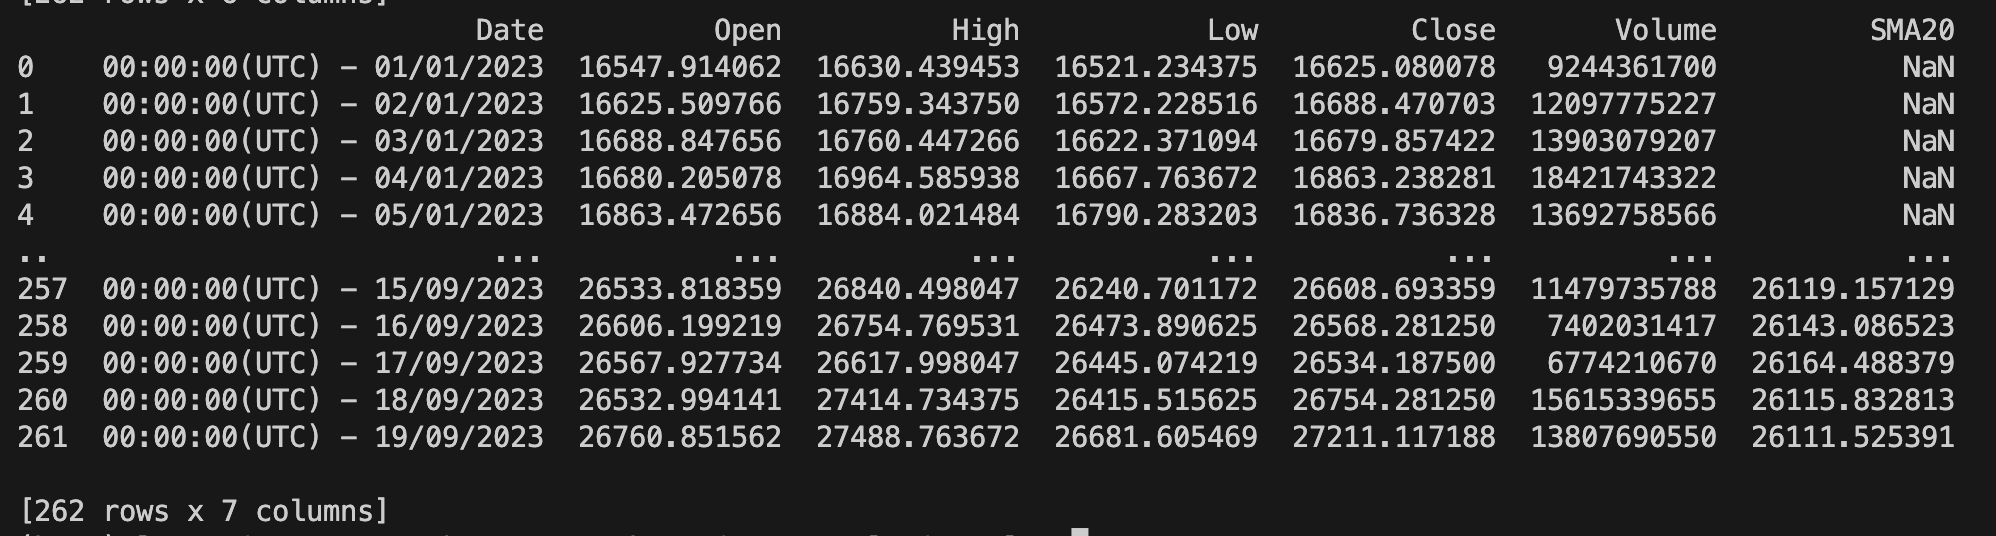
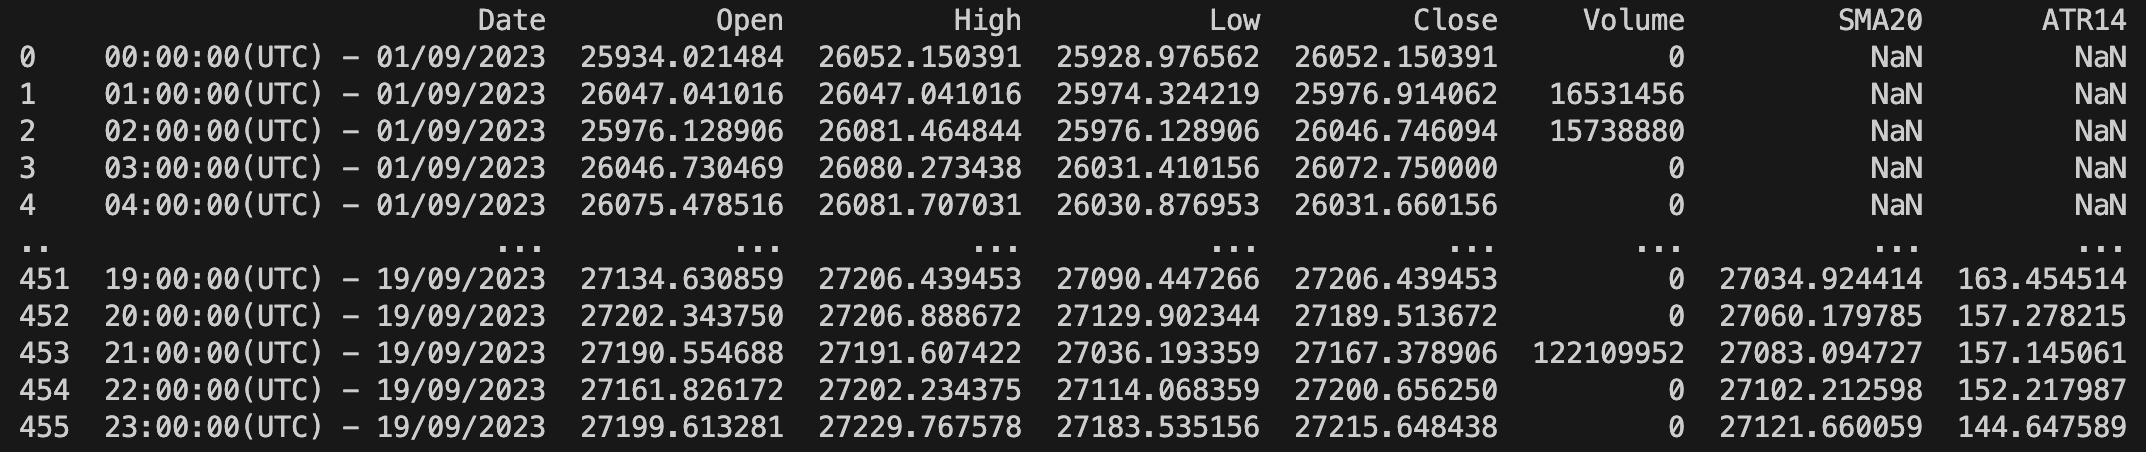
Update Average True Range

diff --git a/utils/addAttributeData.py b/utils/addAttributeData.py
@@ -63,3 +63,25 @@ class AddAttribute():
 
             priceData[columnName] = [[upper[idx], middle[idx], lower[idx]] for idx in range(len(upper))]
             return priceData
+        
+    class VolatilityAnalysis(): 
+        def ATR(self, priceData, timePeriod=14, priceName=['High', 'Low', 'Close'], columnName="ATR14"): 
+            '''
+            Usage
+            -----
+            Add Average True Range column to DataFrame
+
+            Parameters
+            ----------
+            priceData (DataFrame): the dataframe you base on
+            timePeriod (int): interval for each data record
+            priceName (str): the name of the column you want to base on
+            columnName (str): the name of the columns you want to add
+
+            Returns
+            -------
+            priceData (DataFrame): Dataframe have Average True Range
+            '''
+
+            priceData[columnName] = talib.ATR(priceData[priceName[0]], priceData[priceName[1]], priceData[priceName[2]], timeperiod=timePeriod)
+            return priceData

diff --git a/README.md b/README.md
@@ -66,7 +66,8 @@ from crawling.price import *
 ![plot](./img/addAttribute.png)
 :thought_balloon: You need to add the data of your indicator before you can draw it
 ``` python
-data = AddAttribute().SMA(priceData=data, timePeriod=20, priceName='Close', columnName='SMA20')
+data = AddAttribute().TechnicalAnalysis().SMA(data, 20, 'Close', 'SMA20')
+data = AddAttribute().VolatilityAnalysis().ATR(data, 14, ['High', 'Low', 'Close'], columnName='ATR14')
 print(data)
 ```
 
